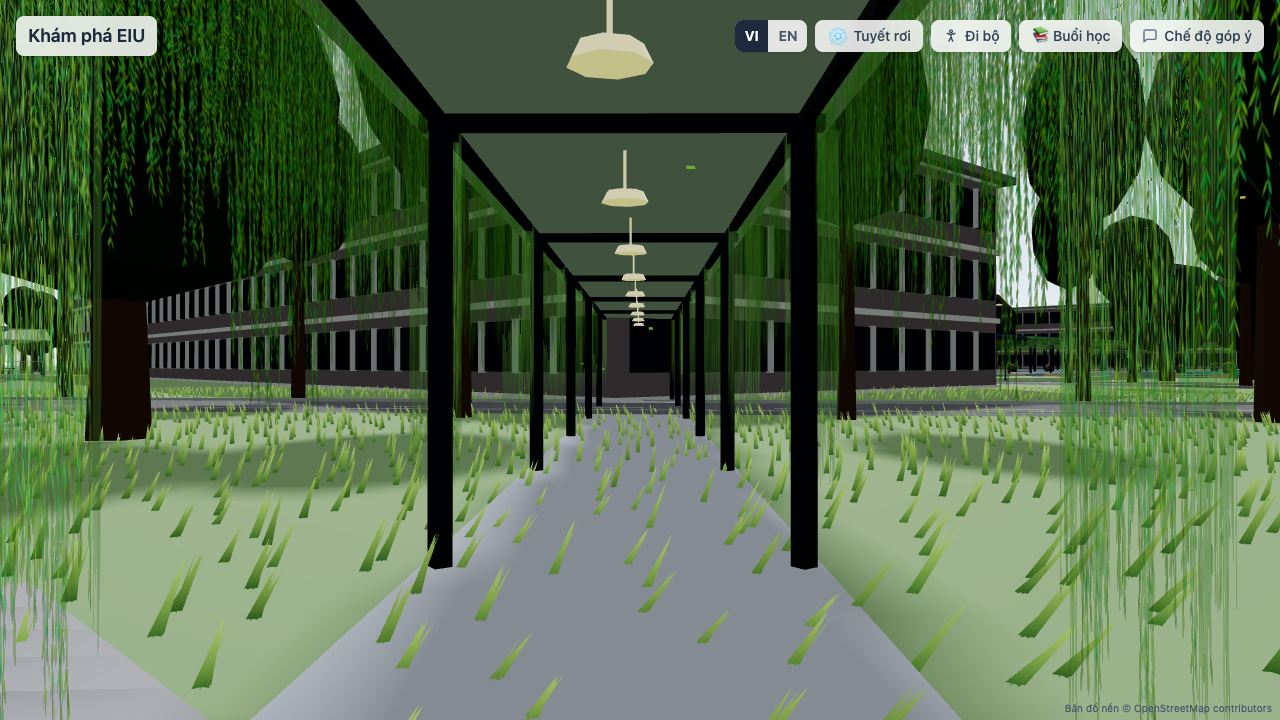
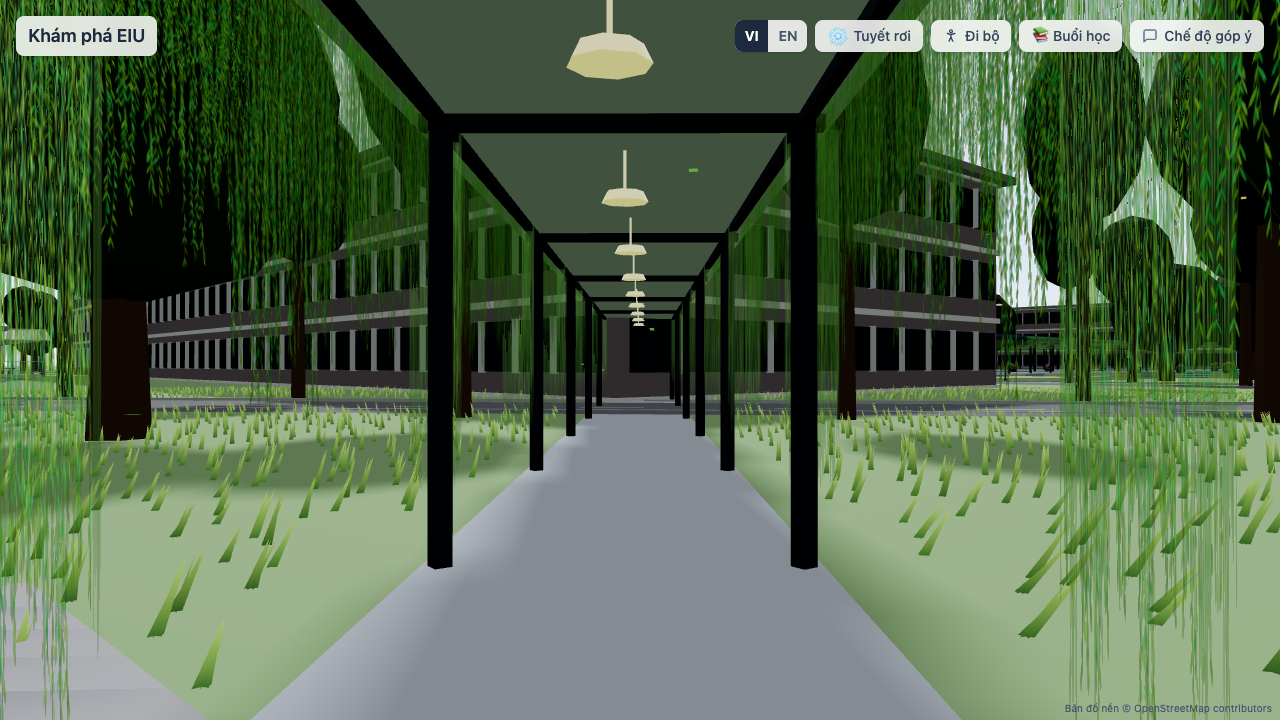
fix(scene): loai bo co khoi san be tong hanh lang va cac be mat lat (Muc 1)

diff --git a/src/scene/nature/Grass.tsx b/src/scene/nature/Grass.tsx
@@ -12,6 +12,7 @@ import { useFrame } from '@react-three/fiber';
 import { campus } from '../../data';
 import { BRIDGE_WIDTH, FOOTWAY_WIDTH, GRASS, ROAD_WIDTH, ROUNDABOUT_GRASS, ROUNDABOUT_ROAD_WIDTH, STREET_LANE_WIDTH } from '../groundLevels';
 import { isPointInPond } from '../zone1/pondLayout';
+import { ZONE2_WALKWAYS } from '../zone2/Zone2Walkways';
 import { buildGrassMask, type GrassMaskRoad } from './grassMask';
 import { applyWind } from './wind';
 import { useSnowStore } from '../../store/useSnowStore';
@@ -74,13 +75,40 @@ export default function Grass() {
       else if (r.kind === 'bridge') width = BRIDGE_WIDTH;
       return { points: r.points, width };
     });
+
+    // Thêm các hành lang mái che & lối đi bê tông để khoét sạch cỏ khỏi mặt sàn
+    const walkwayRoads: GrassMaskRoad[] = ZONE2_WALKWAYS.map((w) => ({
+      points: w.points,
+      width: w.width + 0.25,
+    }));
+
+    const orchardPlots = [
+      { cx: 45.0, cz: -75.0 },
+      { cx: 52.0, cz: -78.0 },
+      { cx: 38.0, cz: -72.0 },
+      { cx: 48.0, cz: -142.0 },
+      { cx: 38.0, cz: -138.0 },
+      { cx: 108.0, cz: -48.0 },
+      { cx: 116.0, cz: -38.0 },
+    ];
+
     return buildGrassMask({
       boundary: campus.layout.boundary,
-      roads,
+      roads: [...roads, ...walkwayRoads],
       buildingOuters: campus.buildings.map((b) => b.shape.outer),
       parking: campus.layout.parking,
       roundabout: { radius: campus.layout.roundabout.radius, roadWidth: ROUNDABOUT_ROAD_WIDTH },
-      isBlocked: (x, z) => isPointInPond(x, z, 1.2),
+      isBlocked: (x, z) => {
+        // Hồ nước & bậc thềm kè hồ
+        if (isPointInPond(x, z, 2.2)) return true;
+        // Sàn gỗ cafe ngoài trời Highlands
+        if (x >= 135 && x <= 149 && z >= -70 && z <= -57) return true;
+        // Sàn Fami Pizza
+        if (x >= 84 && x <= 96 && z >= 59 && z <= 75) return true;
+        // Lối đi lát gạch đỏ vườn sinh thái
+        if (orchardPlots.some((p) => Math.abs(x - p.cx) < 0.75 && z >= p.cz + 0.9 && z <= p.cz + 6.6)) return true;
+        return false;
+      },
       roadMargin: 0.5,
       solidMargin: 0.4,
     });

diff --git a/src/scene/zone2/Zone2Walkways.tsx b/src/scene/zone2/Zone2Walkways.tsx
@@ -5,7 +5,7 @@ import { safeMerge } from '../kit/geometryHelpers';
 import Block11Details from './Block11Details';
 import CampusGreenery from '../nature/CampusGreenery';
 
-const ZONE2_WALKWAYS: readonly { readonly points: readonly Vec2[]; readonly roofH: number; readonly width: number }[] = [
+export const ZONE2_WALKWAYS: readonly { readonly points: readonly Vec2[]; readonly roofH: number; readonly width: number }[] = [
   // Hành lang mái che B9 ↔ B10 (theo đường footway OSM)
   {
     points: [
